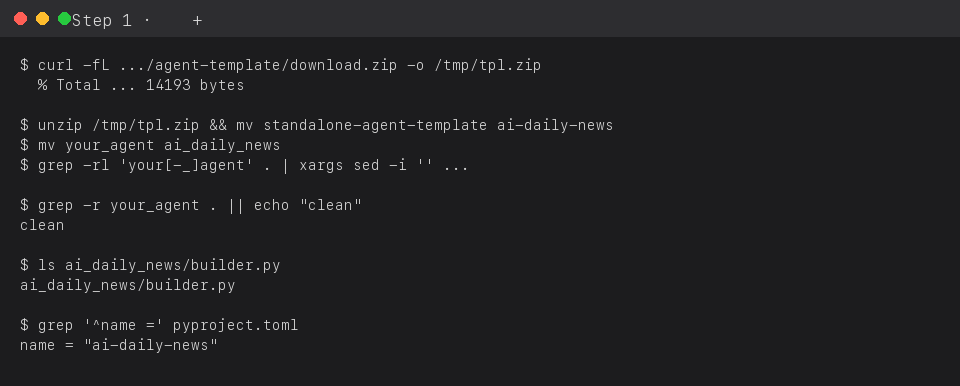
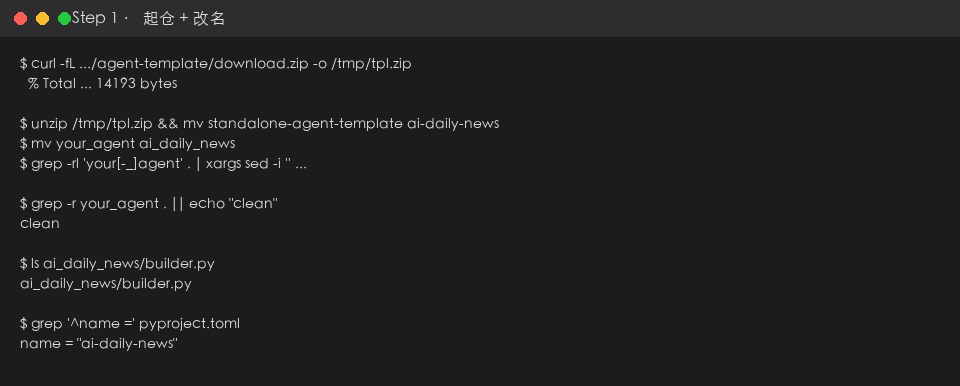
fix(walkthrough): use CJK font for terminal screenshot rendering

diff --git a/assets/walkthrough-ai-daily-news/render_screenshots.py b/assets/walkthrough-ai-daily-news/render_screenshots.py
@@ -14,9 +14,11 @@ OUT.mkdir(parents=True, exist_ok=True)
 
 # macOS monospace fonts (fallback chain)
 FONT_CANDIDATES = [
+    "/System/Library/Fonts/PingFang.ttc",
+    "/System/Library/Fonts/STHeiti Light.ttc",
+    "/System/Library/Fonts/Hiragino Sans GB.ttc",
     "/System/Library/Fonts/SFNSMono.ttf",
     "/System/Library/Fonts/Menlo.ttc",
-    "/Library/Fonts/Courier New.ttf",
 ]
 
 
@@ -41,7 +43,7 @@ def render_terminal(
     pad: int = 20,
 ) -> None:
     font = _font(font_size)
-    title_font = _font(font_size + 2)
+    title_font = _font(font_size + 1)
     lines = body.rstrip("\n").split("\n")
     line_h = font_size + 6
     title_h = 36
